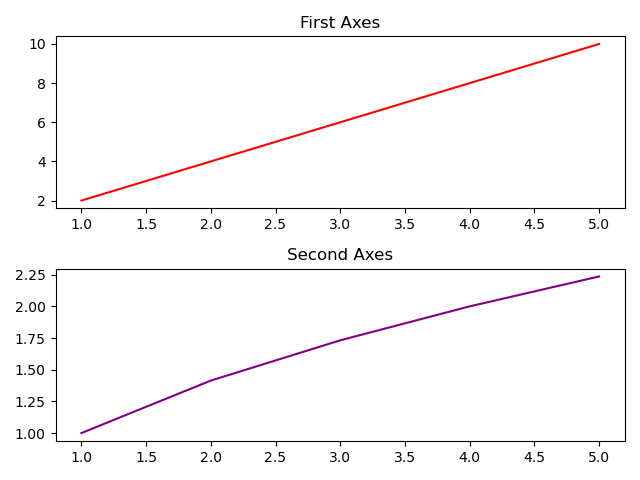
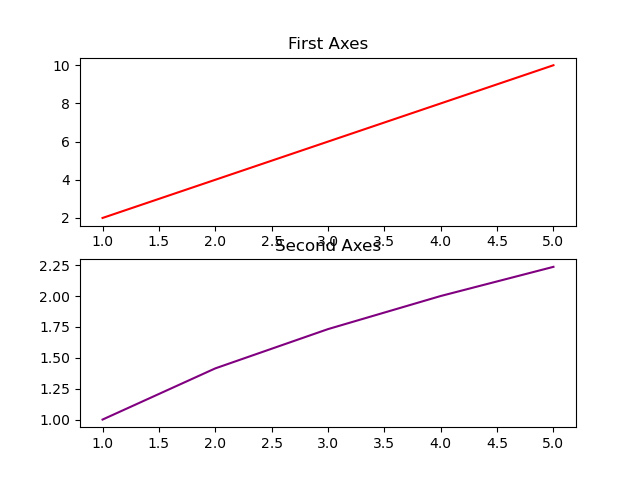
matplotlib4

diff --git a/matlpotlib4.py b/matlpotlib4.py
@@ -7,6 +7,15 @@ axes[0].plot(x,y,color="red")
 axes[0].set_title("First Axes")
 axes[1].plot(x,x**0.5,color="purple")
 axes[1].set_title("Second Axes")
+
+fig1 = plt.figure(figsize=(6,4))
+axes1 = fig1.add_axes([0,0,1,1])
+axes1.plot(x,x**0.5,color = "red",label = "x'in karekökü")
+axes1.plot(x,x**2,color = "green",label = "x kare")
+
+axes1.plot(x,x**3,color = "blue",label = "x küp")
+axes1.legend()#labelların gözükmesi için 
 plt.tight_layout()
 plt.show()
 fig.savefig("fig1.png")
+fig1.savefig("fig2.png")
